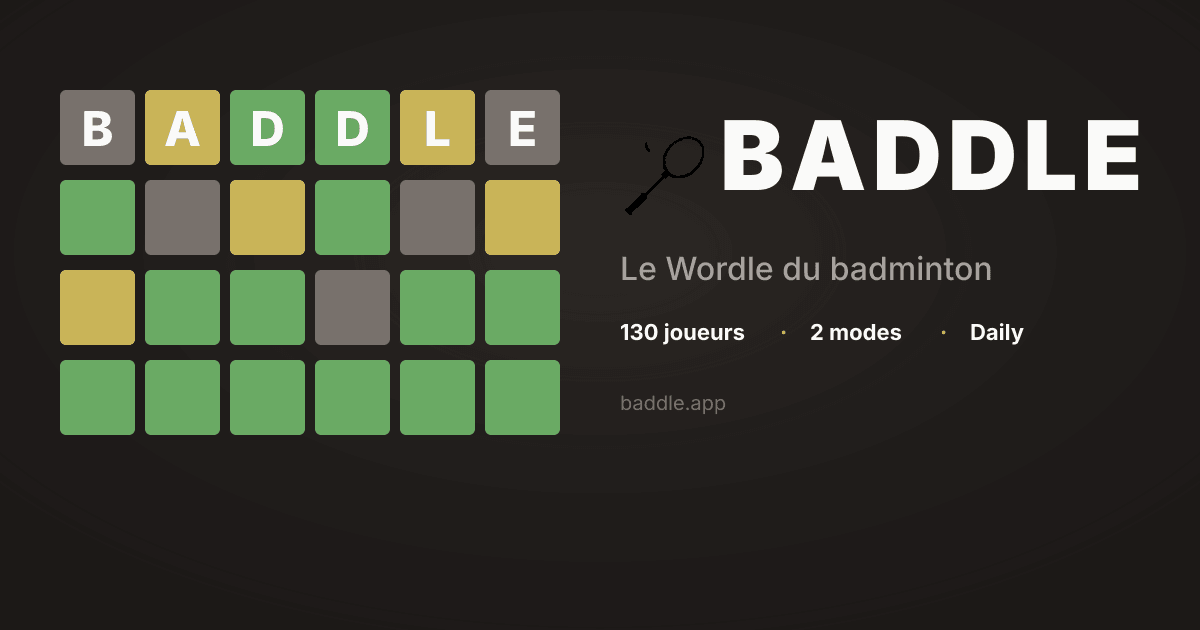
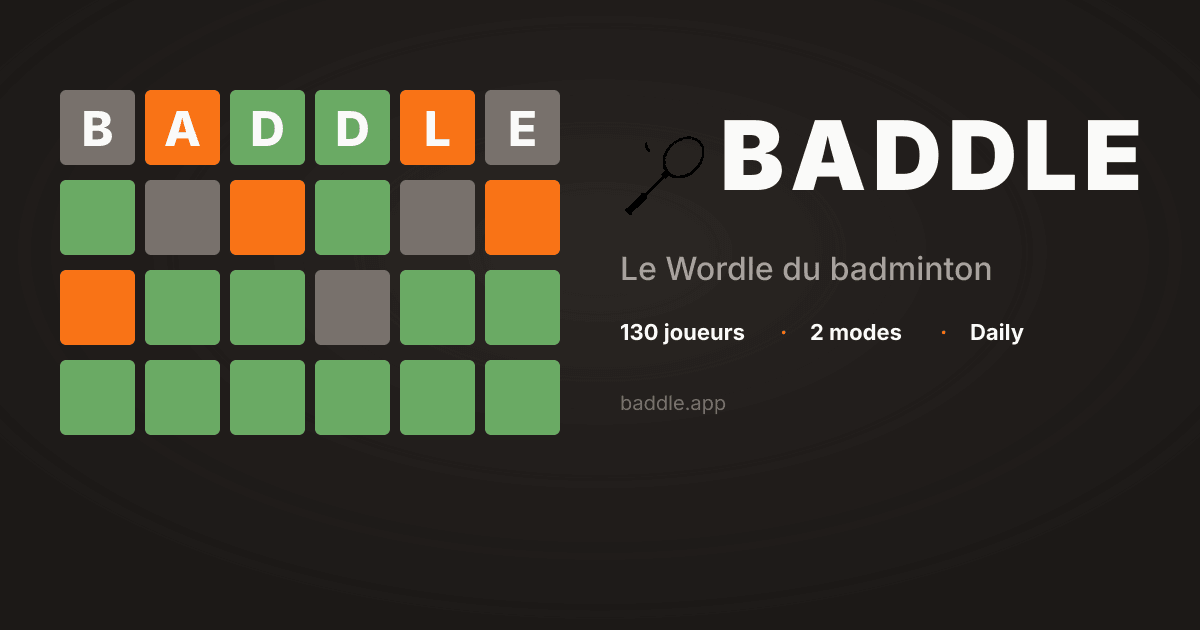
fix(color): switch partial state from Wordle yellow to real orange
racket-orange was set to #c9b458 (Wordle yellow), which didn't match
the token name and made the partial state visually indistinguishable
from a faded match. Switching to #f97316 (Tailwind orange-500) for a
clear orange that distinguishes "close" from "correct" (green).

Also propagates to OG image gradient and confetti palette.

diff --git a/src/components/WinModal.tsx b/src/components/WinModal.tsx
@@ -36,7 +36,7 @@ function useCountdown() {
 
 // Decorative confetti particles
 function ConfettiBurst() {
-  const colors = ['#6aaa64', '#c9b458', '#fafaf9', '#3a3431'];
+  const colors = ['#6aaa64', '#f97316', '#fafaf9', '#3a3431'];
   const pieces = Array.from({ length: 24 }, (_, i) => ({
     left: `${(i / 24) * 100}%`,
     delay: `${Math.random() * 0.4}s`,

diff --git a/tailwind.config.js b/tailwind.config.js
@@ -11,7 +11,7 @@ export default {
         'shuttle-white':  '#fafaf9',
         'shuttle-feather':'#a8a29e',
         'ace-green':      '#6aaa64',
-        'racket-orange':  '#c9b458',
+        'racket-orange':  '#f97316',
         'miss-grey':      '#78716c',
       },
       fontFamily: {
